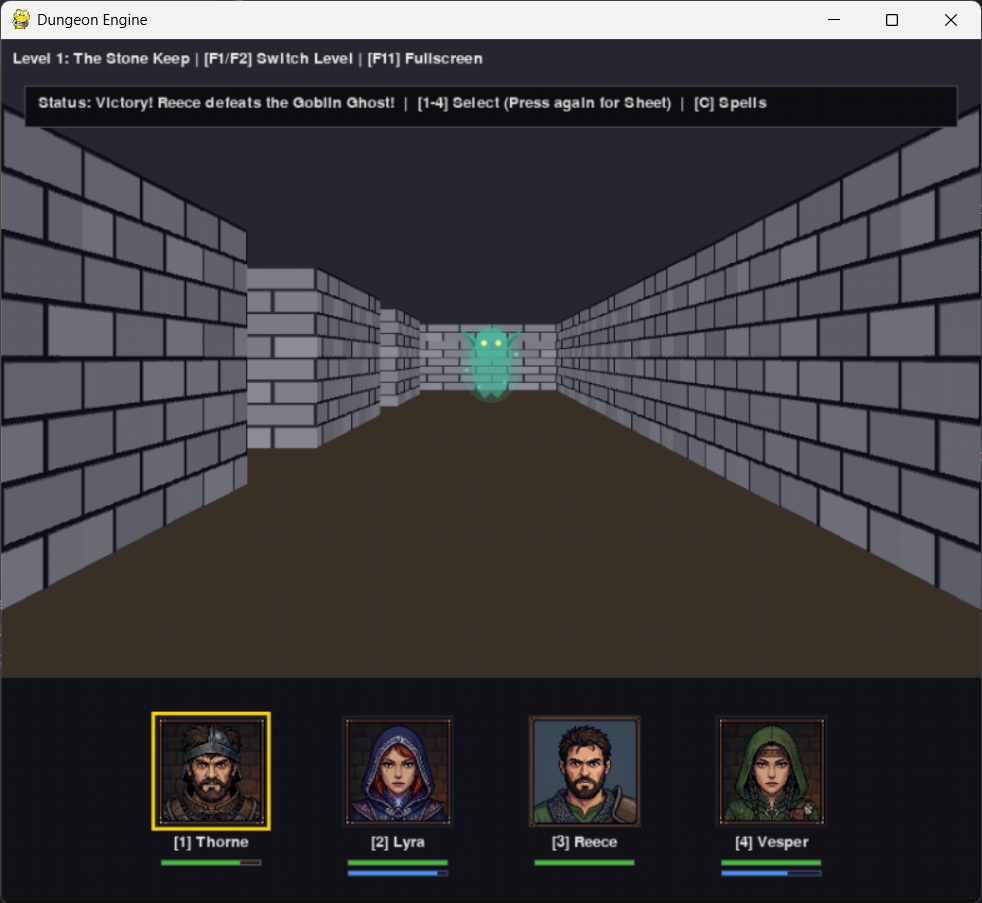
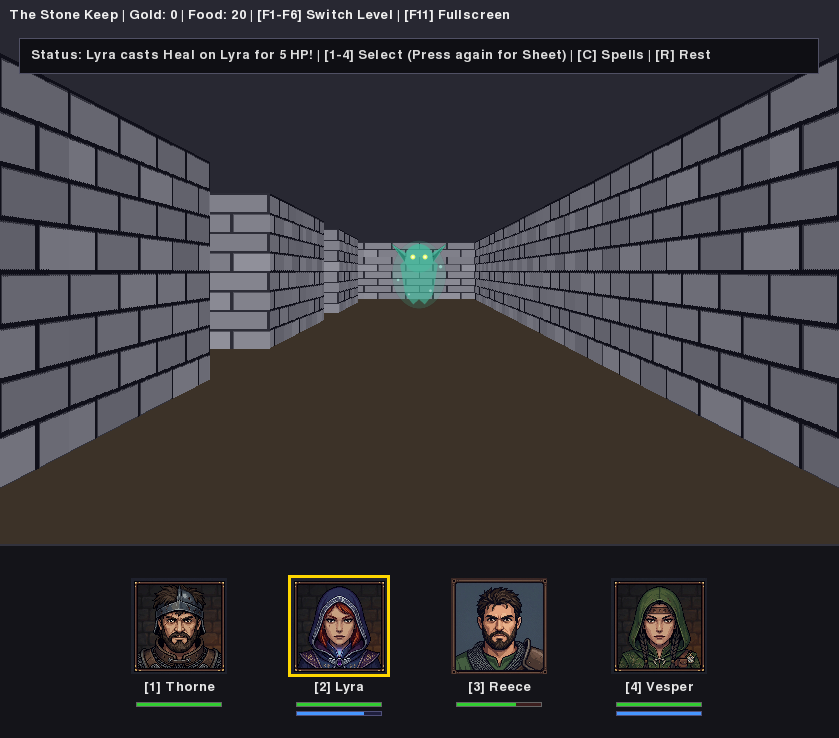
Updated level names and screenshots.

diff --git a/assets/levels.py b/assets/levels.py
@@ -75,7 +75,7 @@ LEVELS = {
         "opponents": [],
     },
     2: {
-        "name": "Level 1: The Stone Keep",
+        "name": "The Stone Keep",
         "texture_id": 1,
         "map": [
             [1, 1, 1, 1, 1, 1, 1, 1, 1, 1, 1, 1],
@@ -96,7 +96,7 @@ LEVELS = {
         ],
     },
     3: {
-        "name": "Level 2: The Deep Cavern",
+        "name": "The Deep Cavern",
         "texture_id": 2,
         "map": [
             [1, 1, 1, 1, 1, 1, 1, 1, 1, 1, 1, 1, 1, 1, 1, 1, 1, 1, 1, 1],
@@ -130,7 +130,7 @@ LEVELS = {
         ],
     },
     4: {
-        "name": "Level 3: The Sunlit Clearing",
+        "name": "The Sunlit Clearing",
         "texture_id": 2,
         "floor_texture_id": 1,
         "sky": True,
@@ -152,7 +152,7 @@ LEVELS = {
         ],
     },
     5: {
-        "name": "Level 4: The Island Outpost",
+        "name": "The Island Outpost",
         "texture_id": 2,
         "floor_texture_id": 1,
         "sky": True,
@@ -182,7 +182,7 @@ LEVELS = {
         ],
     },
     6: {
-        "name": "Level 6: The Meadow House",
+        "name": "The Meadow House",
         "texture_id": 6,
         "floor_texture_id": 1,
         "sky": True,
